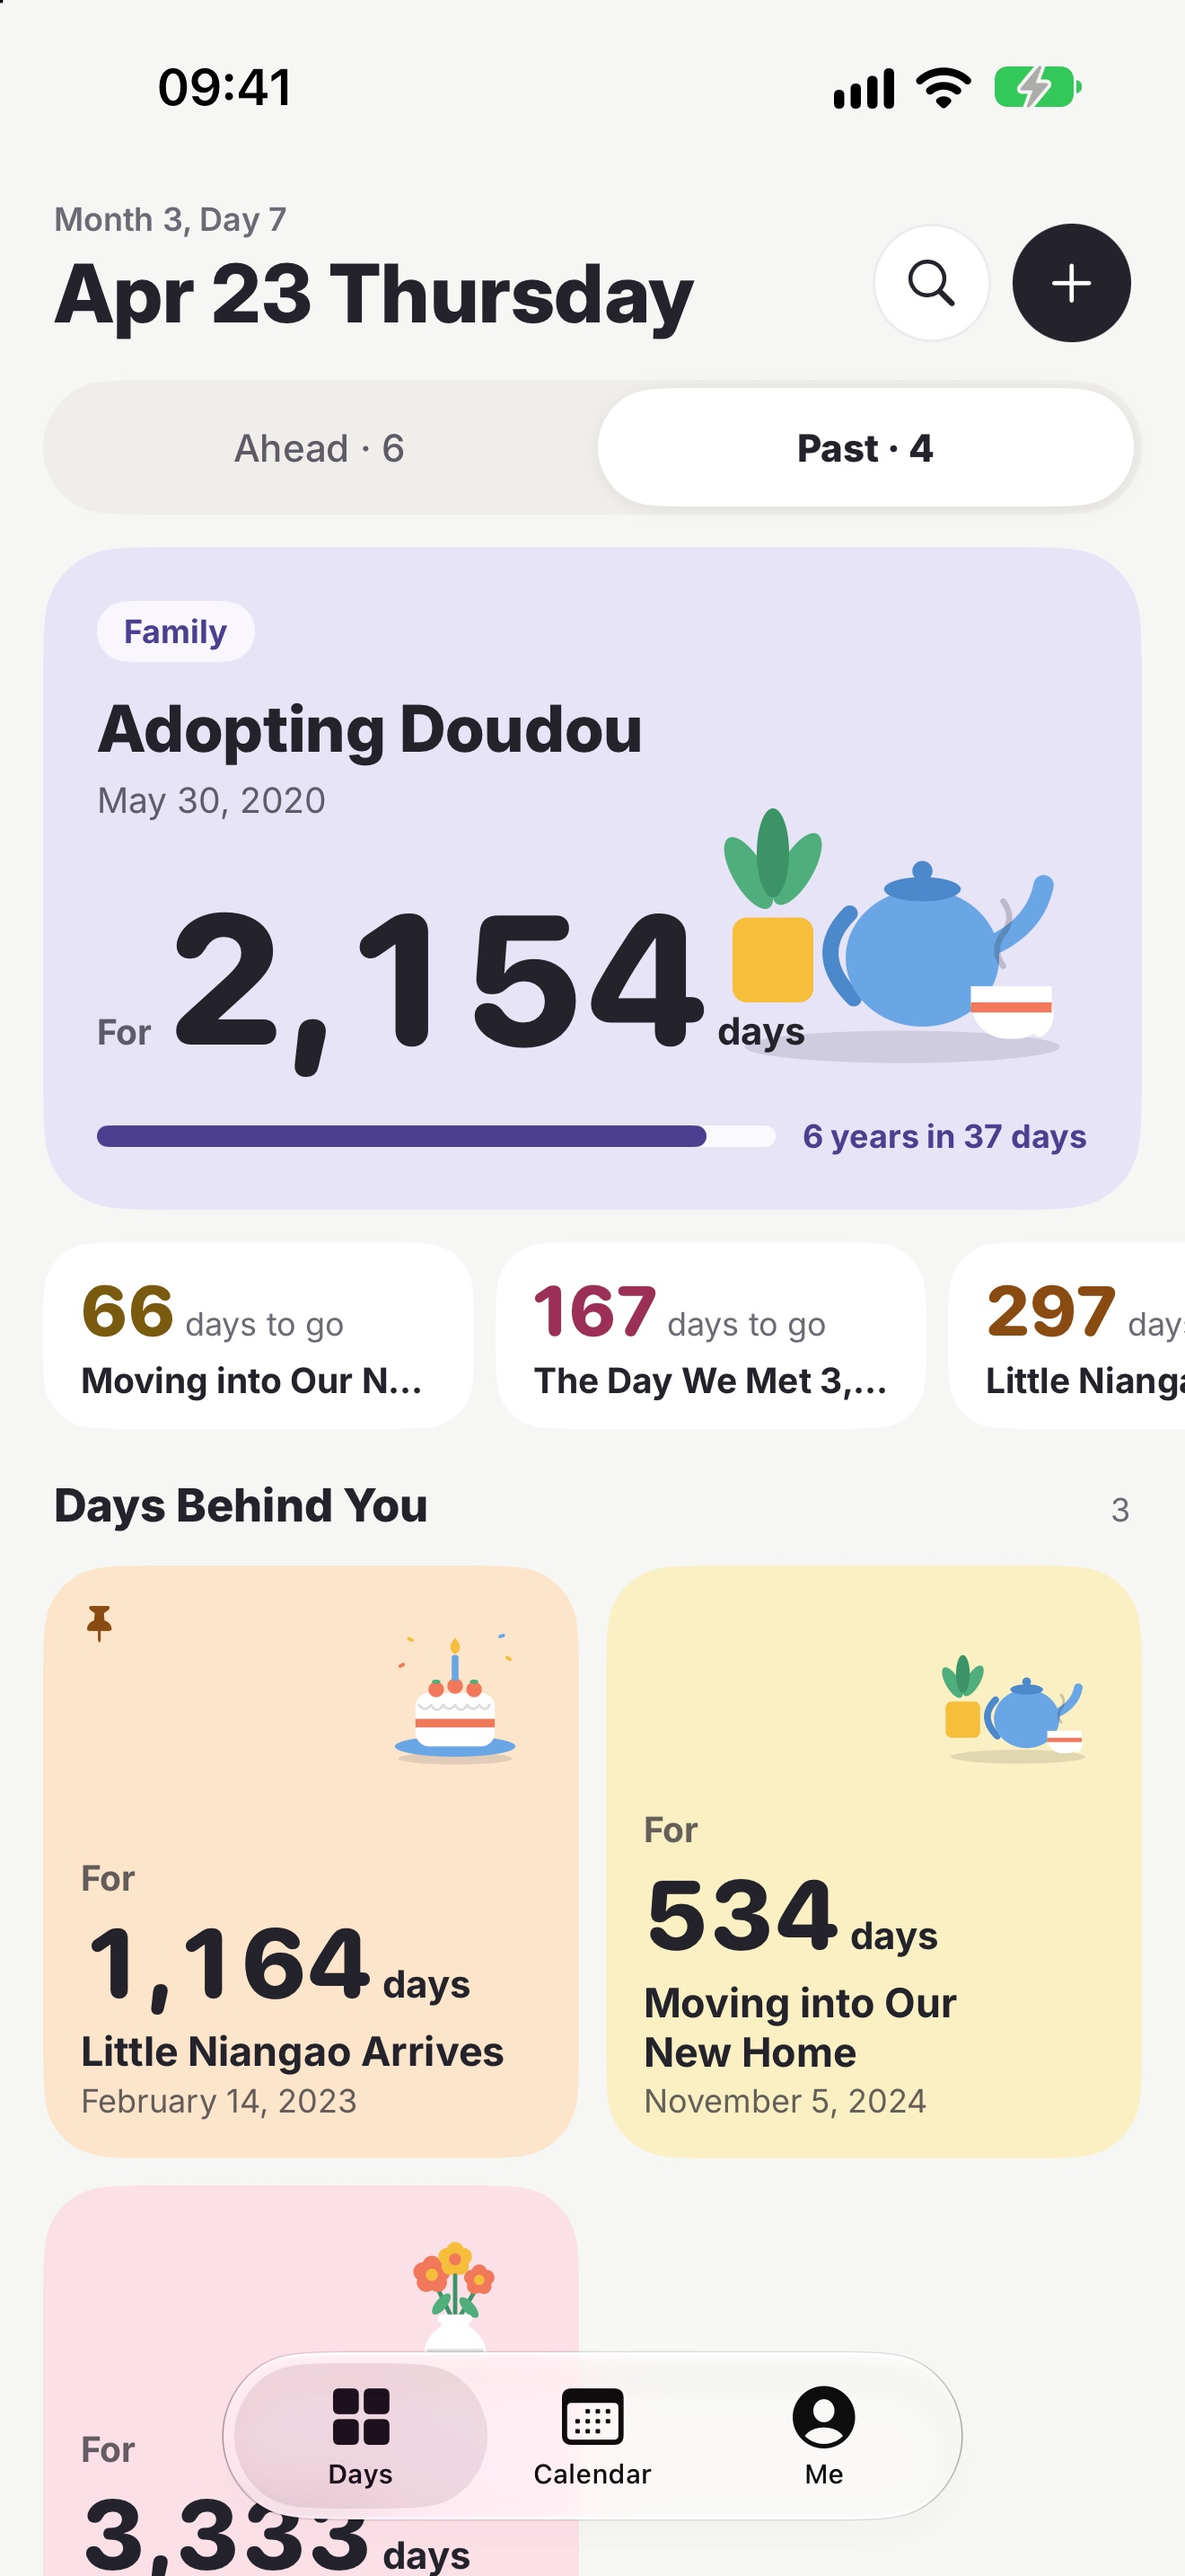
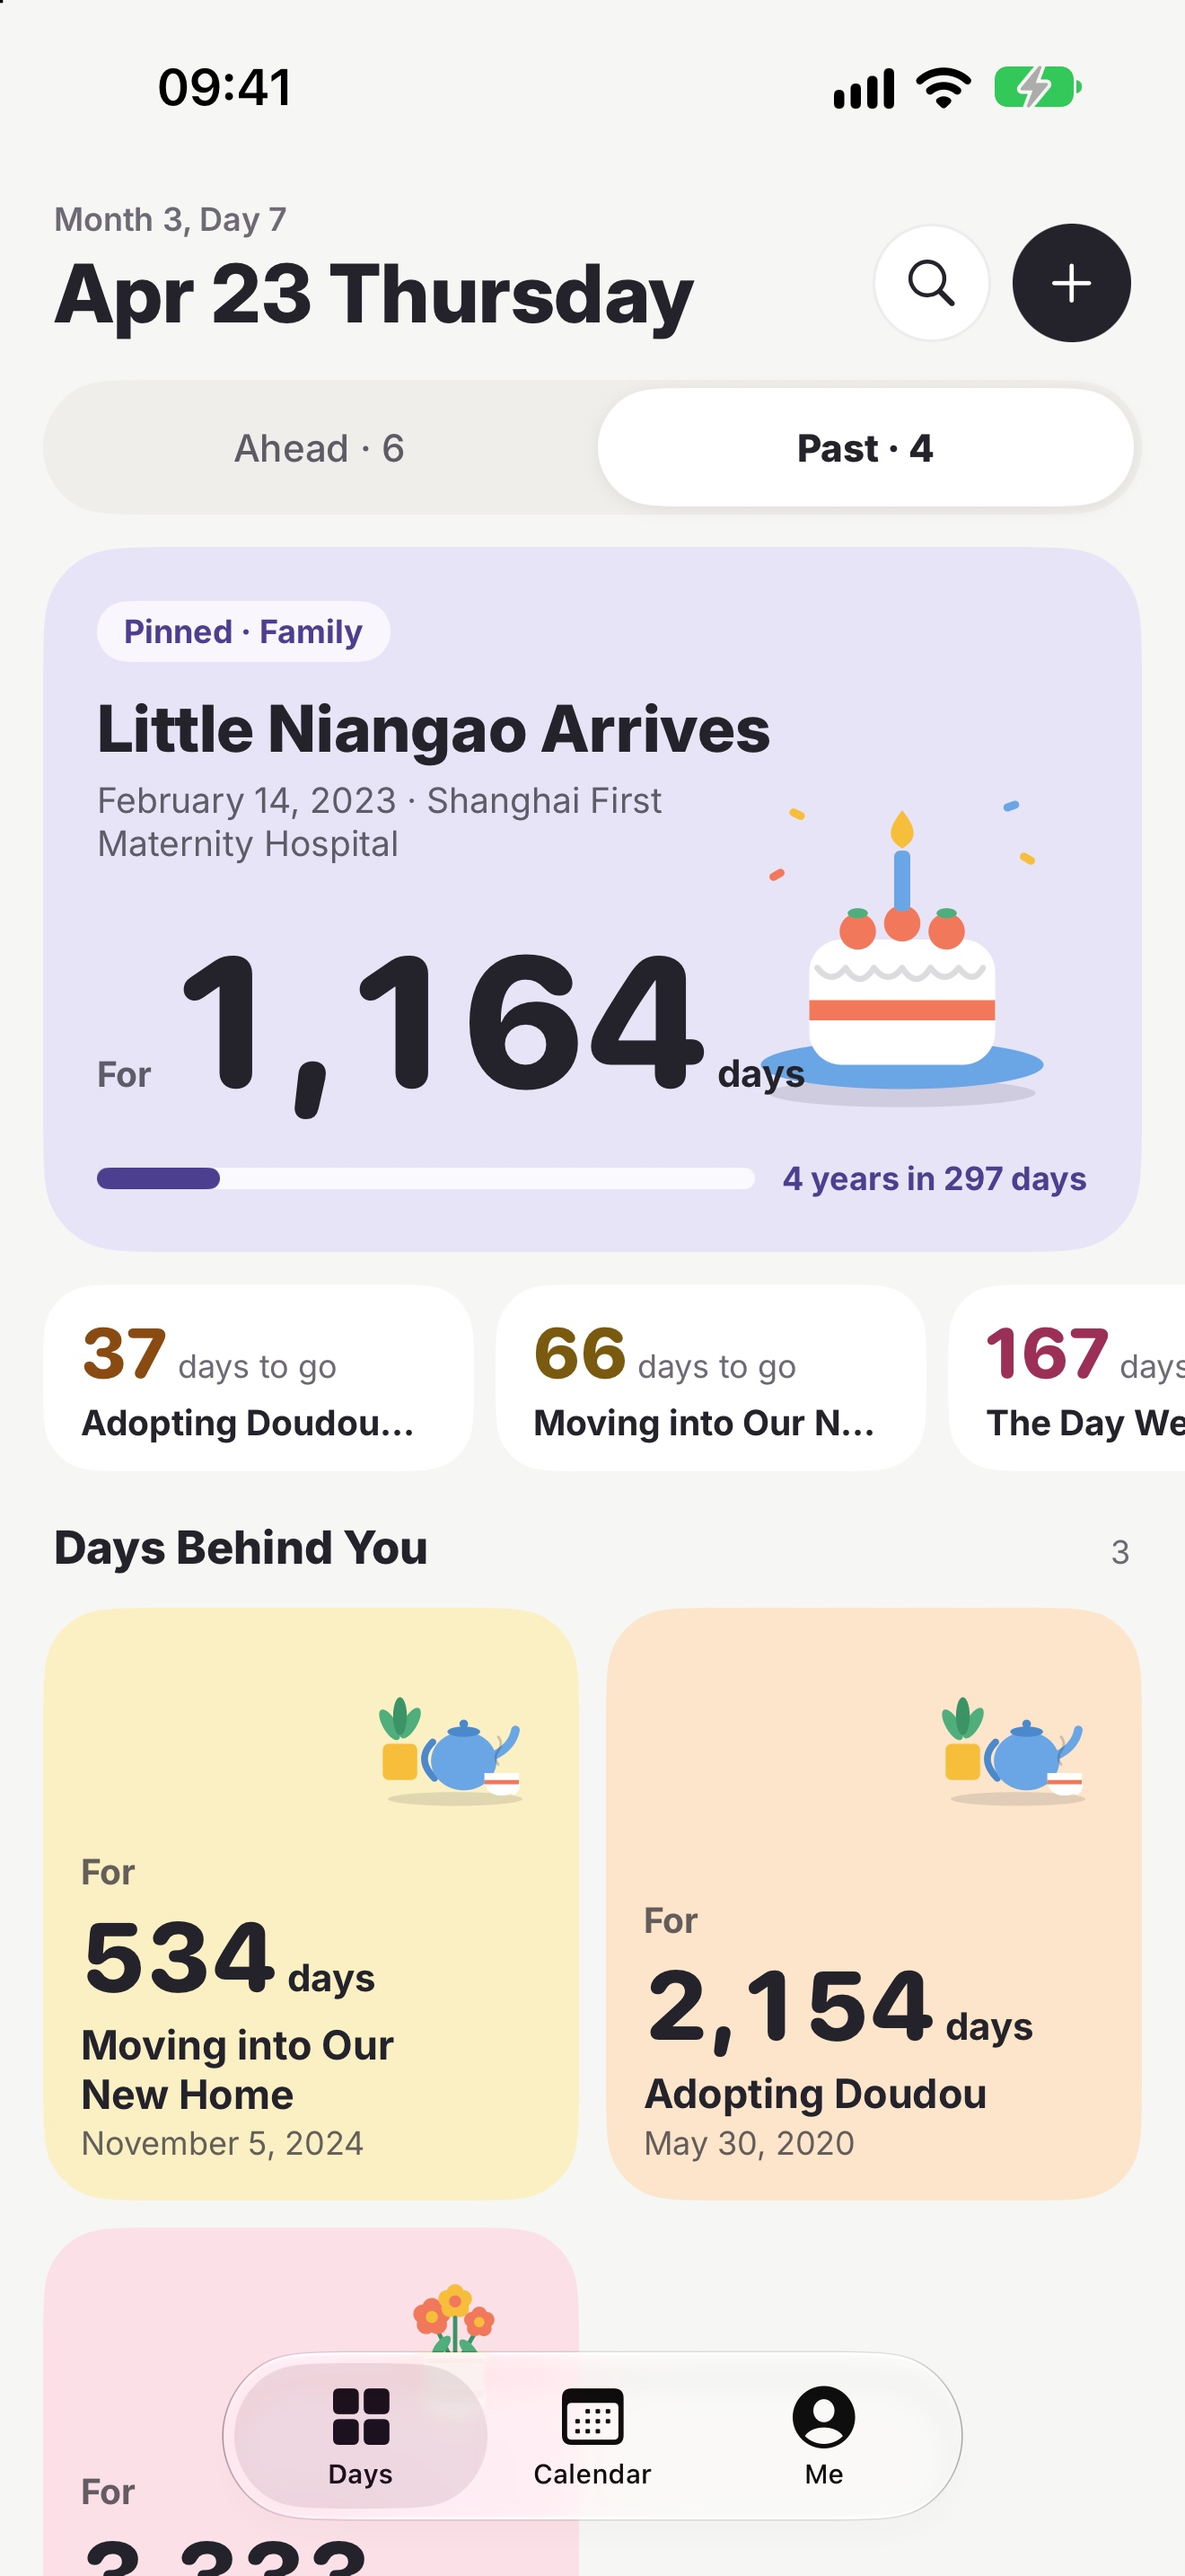
docs: regenerate the screenshots, site images and share images
The App Store screenshots and the site's WebP copies show the pinned hero,
the day list widget and 我的 without the Contacts row, and the share images
are rendered from them. The hero image's description names the pinned day.

Changed region(s): [[0.0311, 0.2172, 1.0, 0.7137], [0.0311, 0.6827, 0.9629, 0.931], [0.0621, 0.931, 0.4038, 1.0]]

diff --git a/docs/en/index.html b/docs/en/index.html
@@ -109,7 +109,7 @@
           </div>
         </div>
         <div class="hero-art">
-          <div class="phone"><img src="../assets/screens/en/01-home.webp" width="900" height="1956" alt="The Days tab in Days Remember, on Ahead: Mom’s Birthday is in 69 days, with the other days as colored cards below"></div>
+          <div class="phone"><img src="../assets/screens/en/01-home.webp" width="900" height="1956" alt="The Days tab in Days Remember, on Ahead: the pinned Wedding Anniversary is in 172 days, with the other days as colored cards below"></div>
         </div>
       </section>
 

diff --git a/docs/zh-Hant/index.html b/docs/zh-Hant/index.html
@@ -109,7 +109,7 @@
           </div>
         </div>
         <div class="hero-art">
-          <div class="phone"><img src="../assets/screens/zh-Hant/01-home.webp" width="900" height="1956" alt="時光首頁的「將至」：媽媽生日還有 69 天，下面是其他日子的彩色卡片"></div>
+          <div class="phone"><img src="../assets/screens/zh-Hant/01-home.webp" width="900" height="1956" alt="時光首頁的「將至」：置頂的結婚紀念日還有 172 天，下面是其他日子的彩色卡片"></div>
         </div>
       </section>
 

diff --git a/docs/index.html b/docs/index.html
@@ -109,7 +109,7 @@
           </div>
         </div>
         <div class="hero-art">
-          <div class="phone"><img src="assets/screens/zh-Hans/01-home.webp" width="900" height="1956" alt="时光首页的「将至」：妈妈生日还有 69 天，下面是其他日子的彩色卡片"></div>
+          <div class="phone"><img src="assets/screens/zh-Hans/01-home.webp" width="900" height="1956" alt="时光首页的「将至」：置顶的结婚纪念日还有 172 天，下面是其他日子的彩色卡片"></div>
         </div>
       </section>
 
